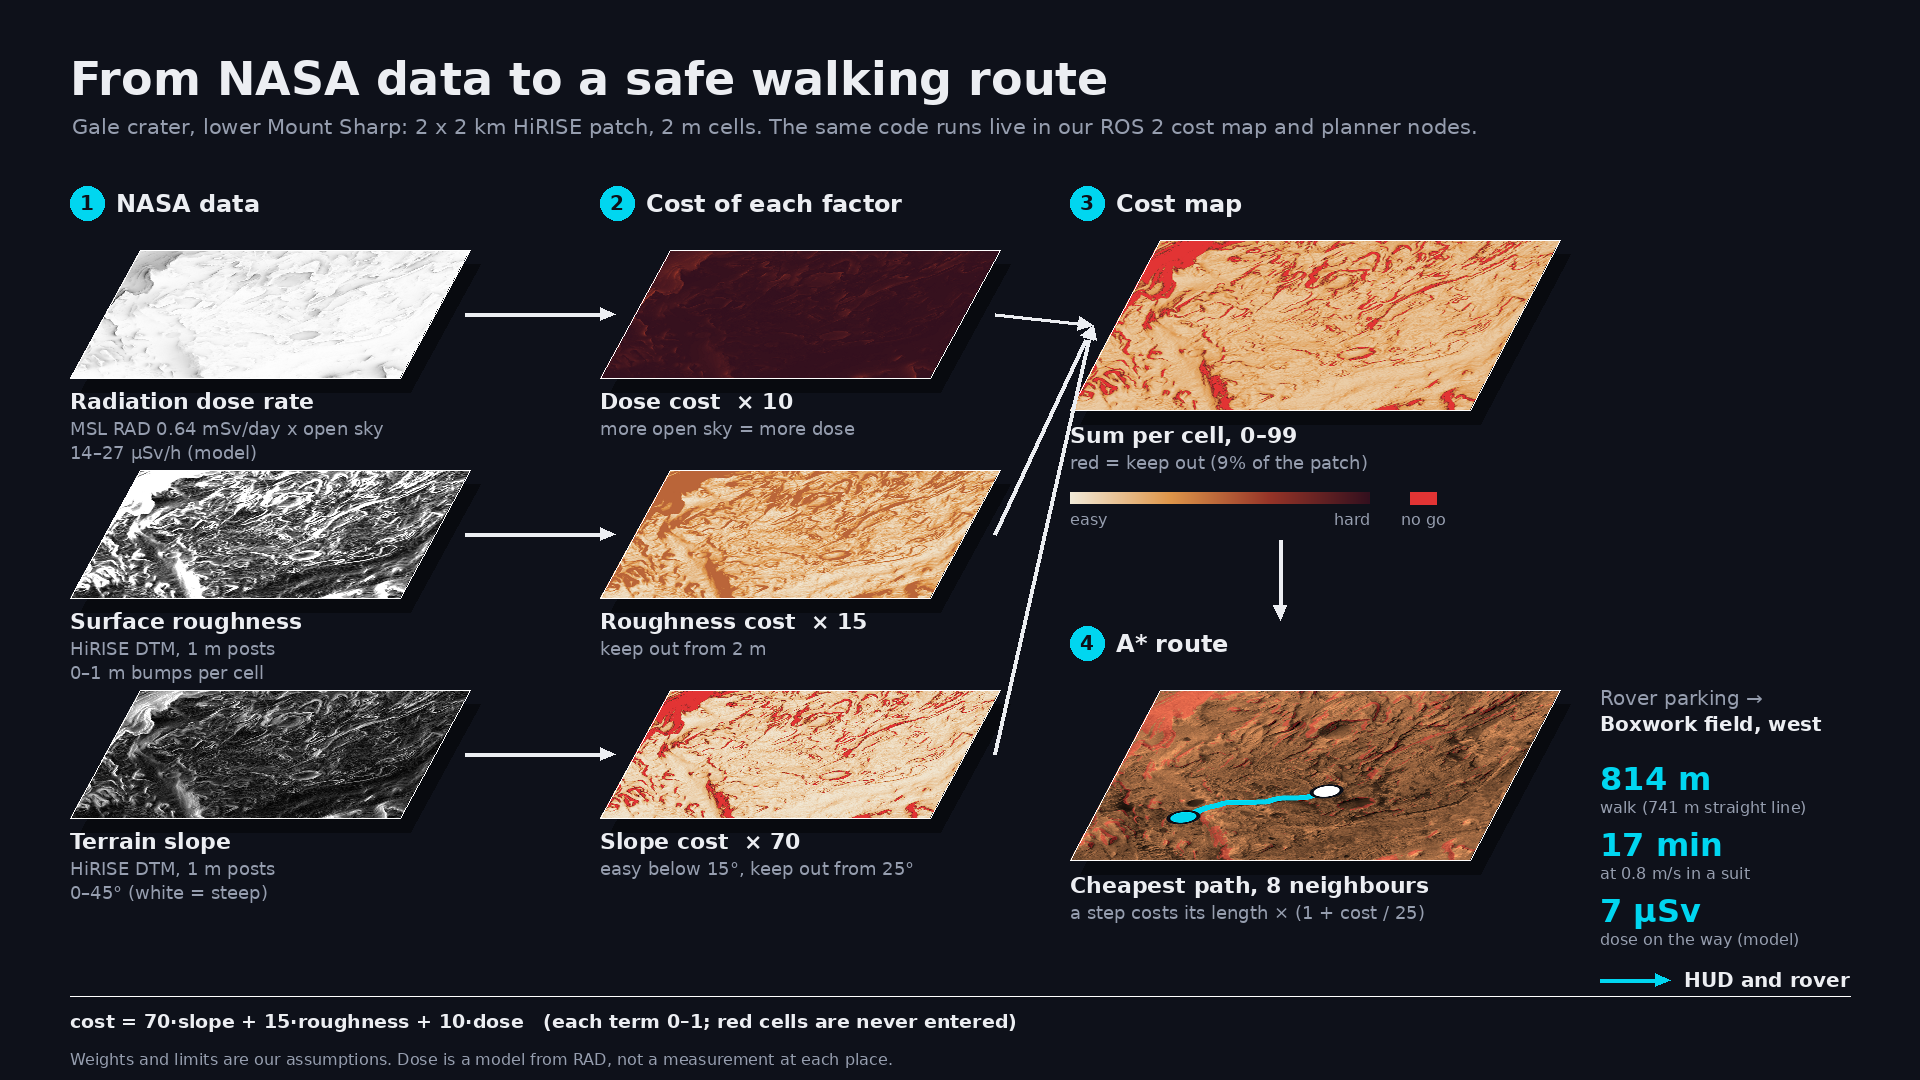
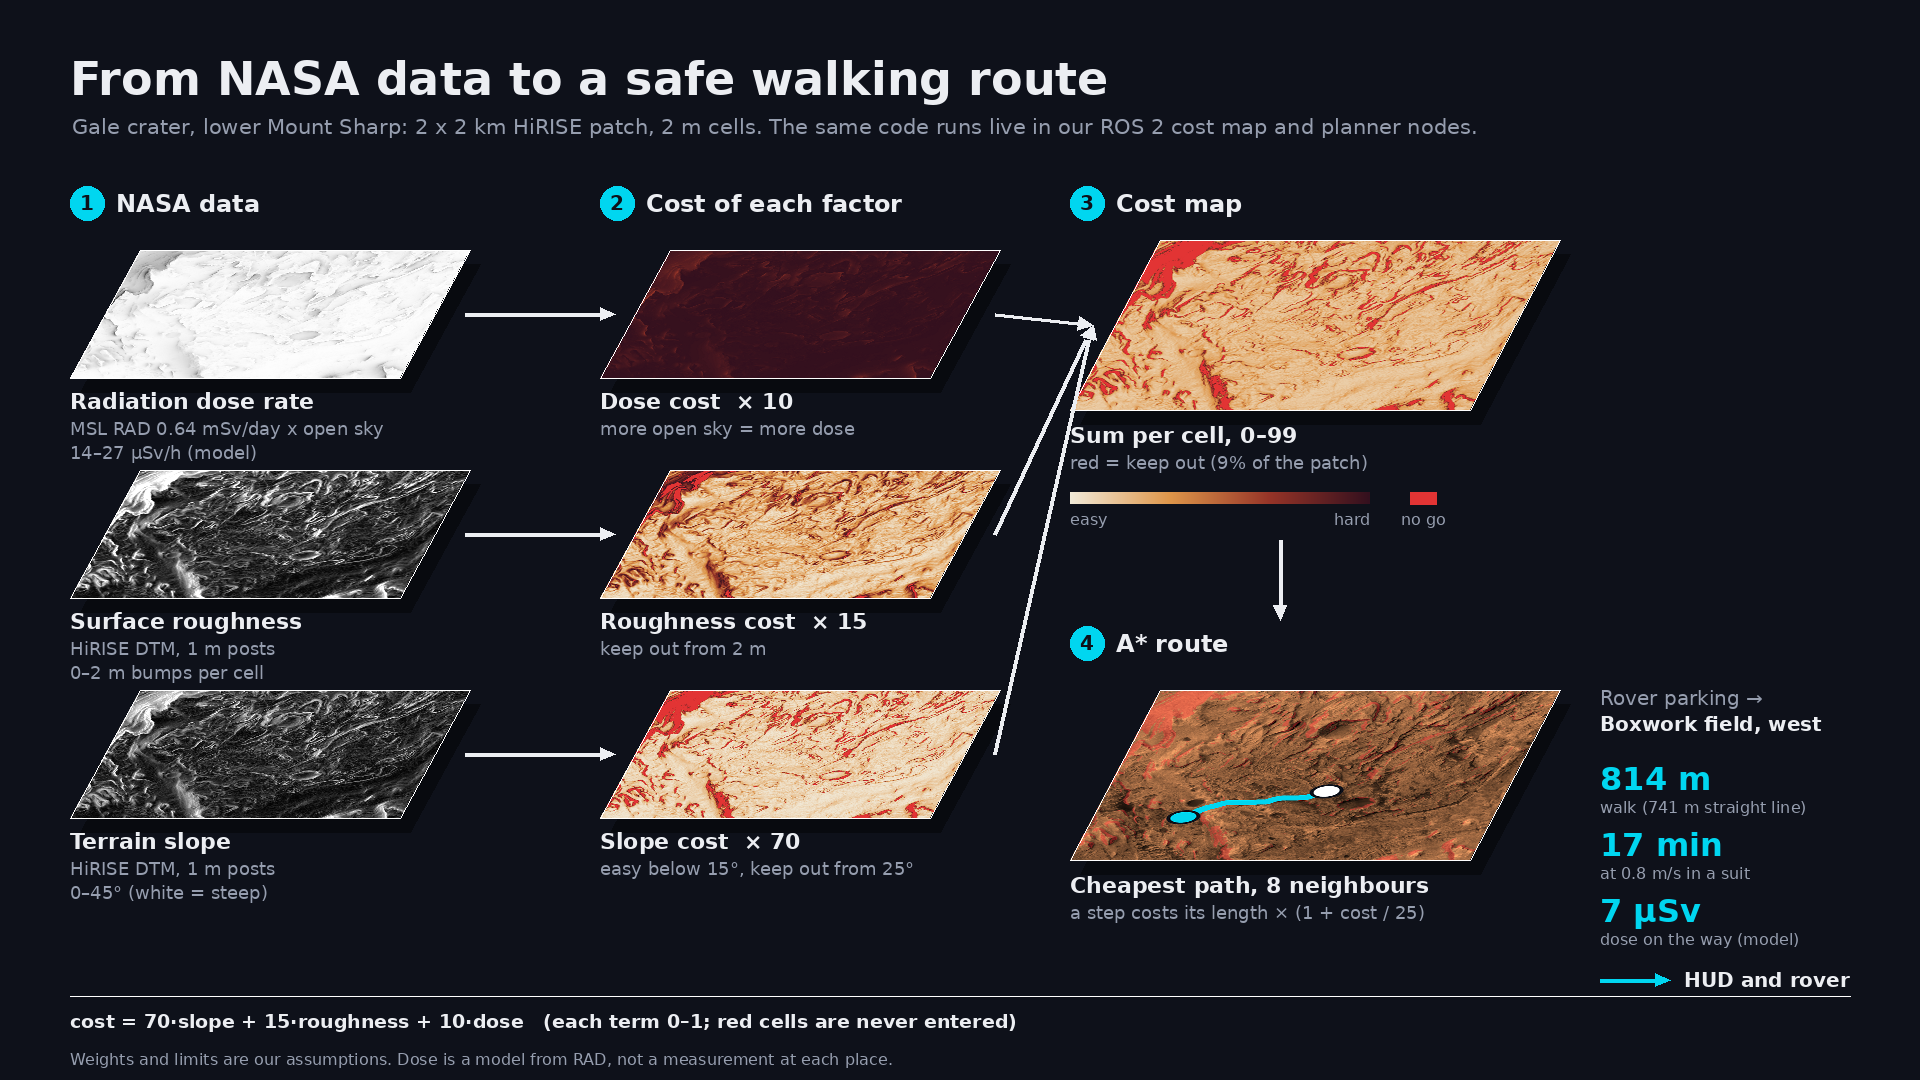
Publish roughness up to 2 m so the walking keep-out limit applies
/nasa/roughness was capped at 1 m, so the 2 m walking limit never matched
a cell. The grid now runs to 2 m; the rover's 1 m limit is unchanged.

Changed region(s): [[0.0312, 0.4278, 0.25, 0.5806], [0.3438, 0.4278, 0.5, 0.4889], [0.3125, 0.5194, 0.375, 0.55]]

diff --git a/sim/costmap_slide.py b/sim/costmap_slide.py
@@ -27,7 +27,7 @@ W, H = 1920, 1080
 TEX = 512  # texture size of each tile before it is tilted
 
 # Same scales and planner defaults as ros/nasa_layers.py and ros/planner.py
-SLOPE_FULL_DEG, ROUGHNESS_FULL_M = 45.0, 1.0
+SLOPE_FULL_DEG, ROUGHNESS_FULL_M = 45.0, 2.0
 COARSE, COST_SCALE, WALK_SPEED = 2, 25.0, 0.8
 
 BG = (14, 17, 26)
@@ -206,15 +206,15 @@ def main():
     inputs = [
         (grid_to_image(grey(raw["dose_rate"], 14.0, 26.7)), "Radiation dose rate",
          "MSL RAD 0.64 mSv/day x open sky\n14–27 µSv/h (model)"),
-        (grid_to_image(grey(raw["roughness"], 0.0, 1.0)), "Surface roughness",
-         "HiRISE DTM, 1 m posts\n0–1 m bumps per cell"),
+        (grid_to_image(grey(raw["roughness"], 0.0, 2.0)), "Surface roughness",
+         "HiRISE DTM, 1 m posts\n0–2 m bumps per cell"),
         (grid_to_image(grey(raw["slope"], 0.0, 45.0)), "Terrain slope",
          "HiRISE DTM, 1 m posts\n0–45° (white = steep)"),
     ]
     factors = [
         (terms["dose"] / p["dose_weight"], None, "Dose cost  × 10",
          "more open sky = more dose"),
-        (terms["roughness"] / p["roughness_weight"], None, "Roughness cost  × 15",
+        (terms["roughness"] / p["roughness_weight"], raw["roughness"] >= p["max_roughness_m"], "Roughness cost  × 15",
          f"keep out from {p['max_roughness_m']:g} m"),
         (terms["slope"] / p["slope_weight"], raw["slope"] >= p["max_slope_deg"], "Slope cost  × 70",
          f"easy below {p['comfort_slope_deg']:g}°, keep out from {p['max_slope_deg']:g}°"),

diff --git a/ros/nasa_layers.py b/ros/nasa_layers.py
@@ -22,7 +22,7 @@ LAYERS = ROOT / "data" / "layers"
 # name: layer value mapped to 100 (0 maps to 0)
 SCALES = {
     "slope": 45.0,  # deg, steeper is clipped to 100
-    "roughness": 1.0,  # m
+    "roughness": 2.0,  # m, the walking keep-out limit in costmap.py
     "sky_view": 1.0,  # fraction of open sky
     "dose_rate": None,  # filled from data/meta.json: open-ground rate from RAD
 }

diff --git a/ros/costmap.py b/ros/costmap.py
@@ -27,7 +27,7 @@ LATCHED = QoSProfile(depth=1, durability=DurabilityPolicy.TRANSIENT_LOCAL,
 
 # Value of 100 in each /nasa/* grid, as published by nasa_layers (see ros/README.md)
 SLOPE_FULL_DEG = 45.0
-ROUGHNESS_FULL_M = 1.0
+ROUGHNESS_FULL_M = 2.0
 
 LAYERS = ("slope", "roughness", "dose_rate")
 

diff --git a/ros/README.md b/ros/README.md
@@ -41,7 +41,7 @@ south-west of the map origin. Values are 0..100:
 | Topic | 100 means | Source |
 | --- | --- | --- |
 | `/nasa/slope` | 45° or steeper | HiRISE DTM |
-| `/nasa/roughness` | 1 m height spread or more | HiRISE DTM |
+| `/nasa/roughness` | 2 m height spread or more | HiRISE DTM |
 | `/nasa/sky_view` | open sky, no terrain above the horizon | HiRISE DTM |
 | `/nasa/dose_rate` | 26.7 µSv/h, the open-ground rate measured by RAD | RAD on Curiosity × sky view |
 
